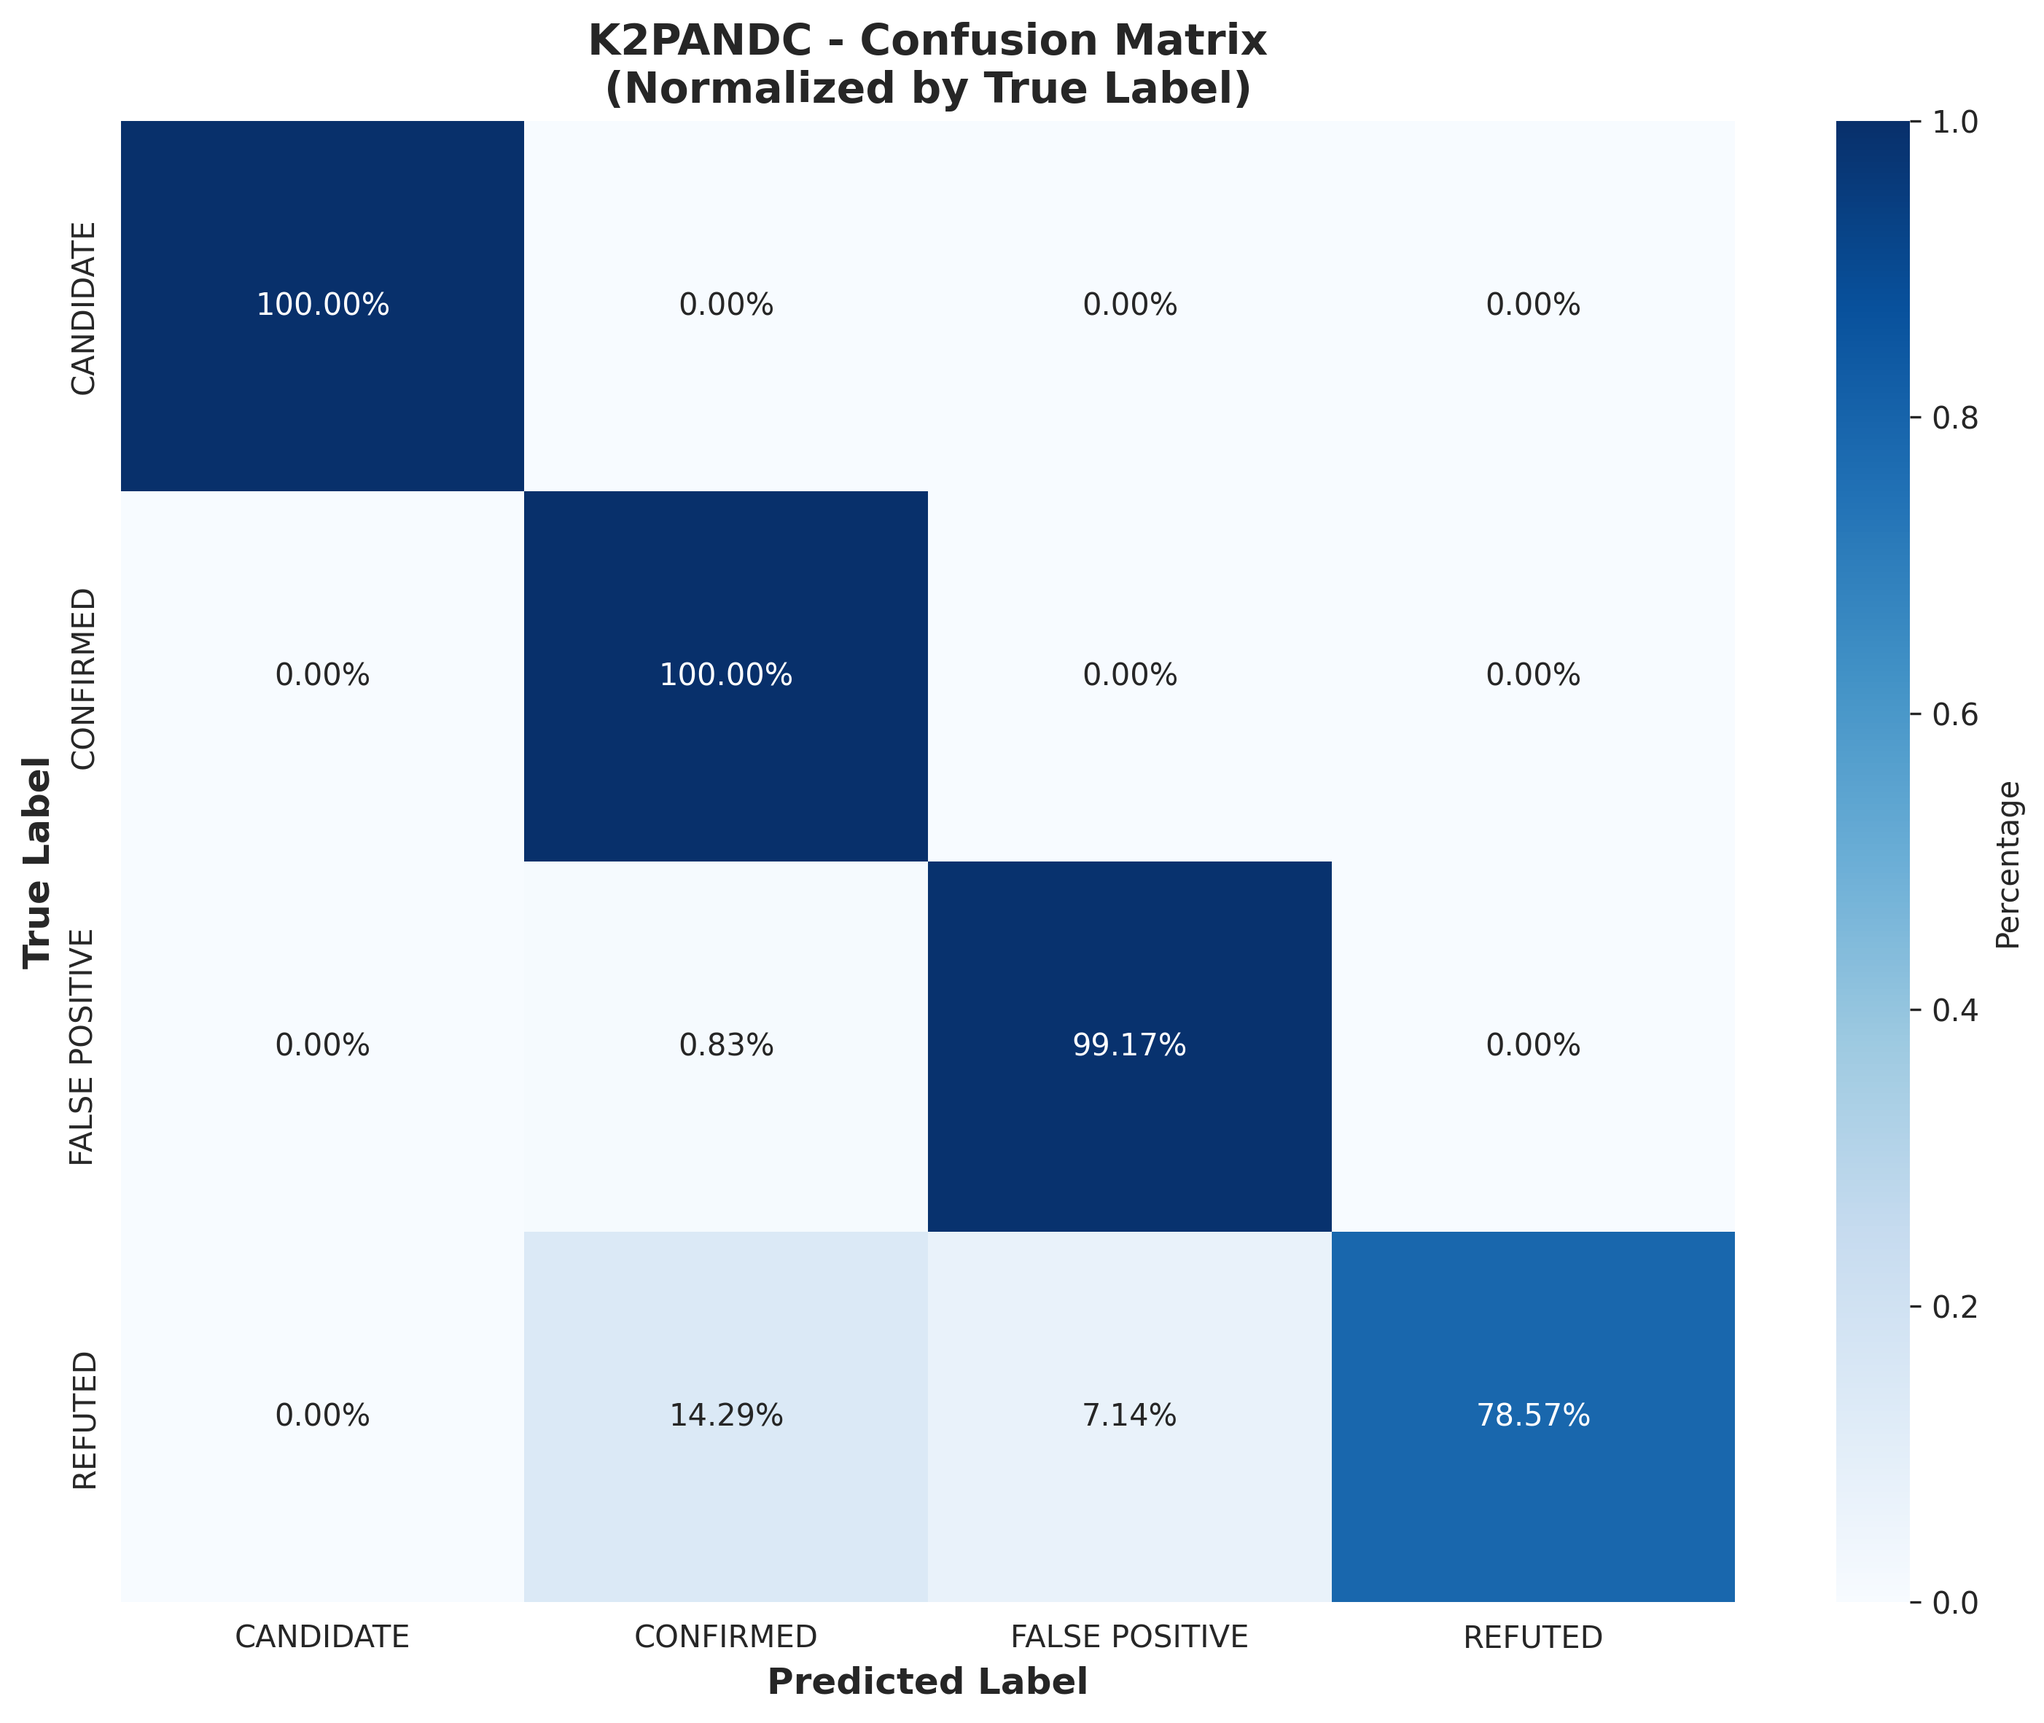
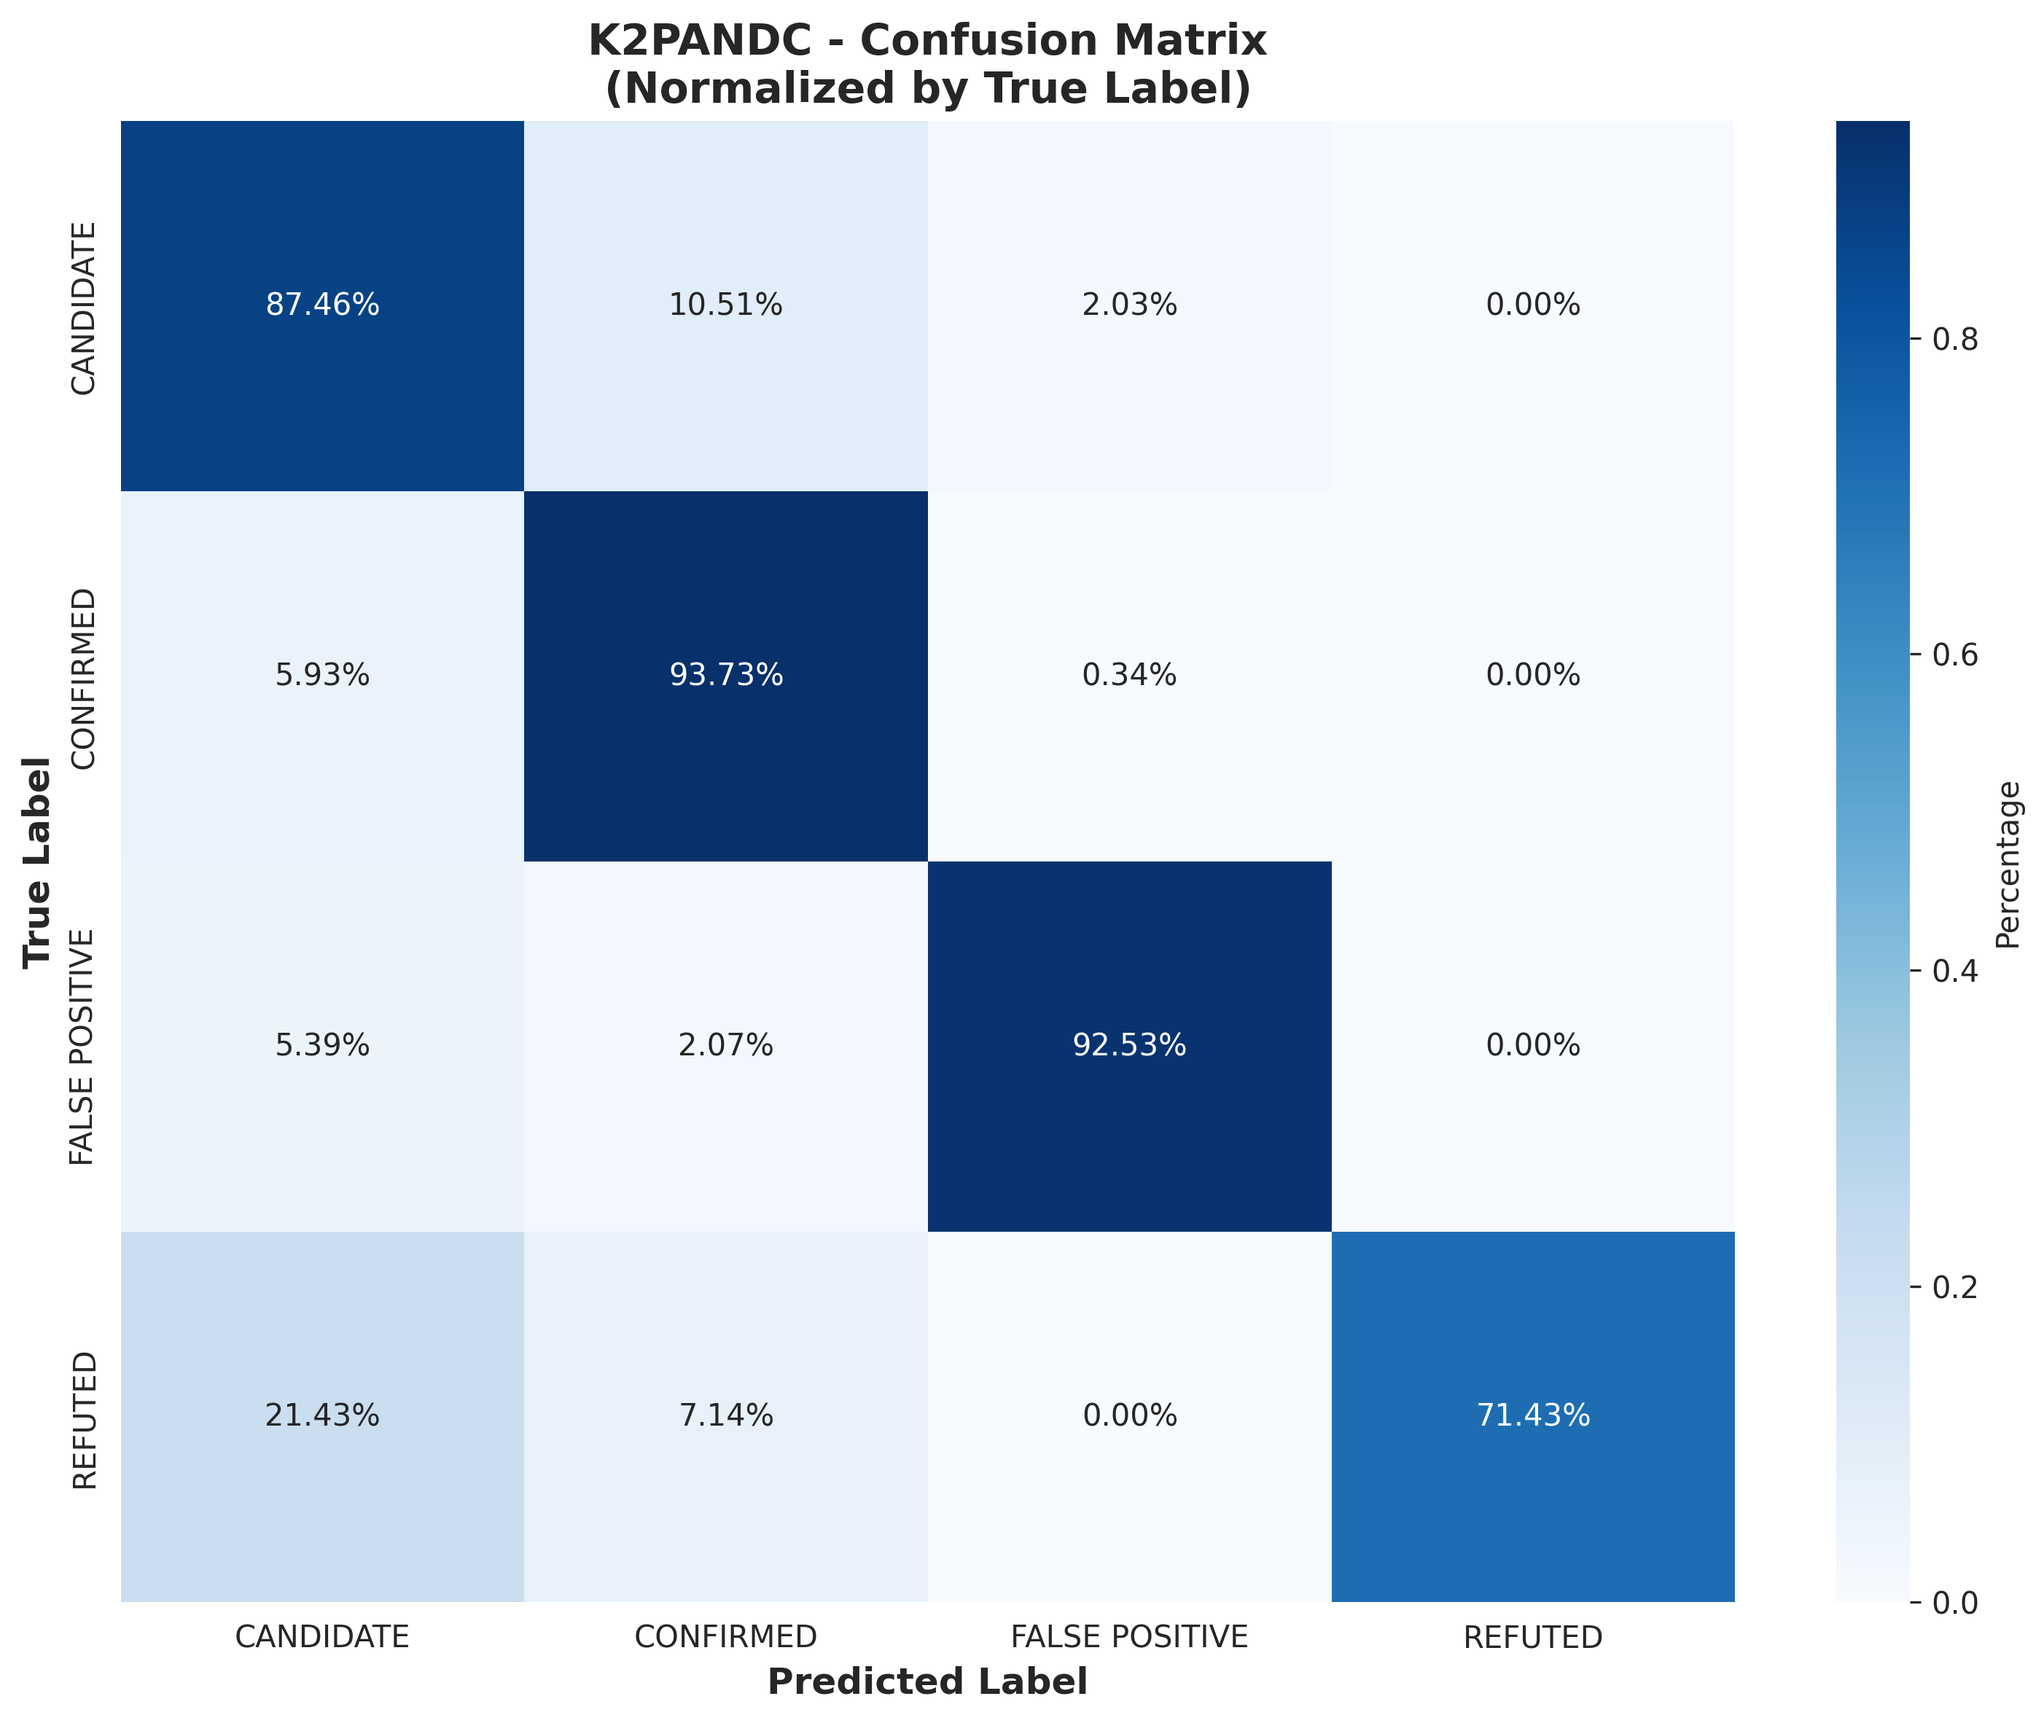
Ml adding xboostg model trying something :)

diff --git a/scripts/train_models_fixed.py b/scripts/train_models_fixed.py
@@ -1,0 +1,321 @@
+"""
+FIXED ML Training Pipeline - Removing Data Leakage
+Properly excludes all target-related columns
+"""
+
+import pandas as pd
+import numpy as np
+import pickle
+import time
+from datetime import datetime
+
+# ML Models
+from sklearn.ensemble import RandomForestClassifier, GradientBoostingClassifier
+from sklearn.model_selection import train_test_split
+from sklearn.metrics import (accuracy_score, precision_score, recall_score,
+                             f1_score, confusion_matrix, classification_report)
+from sklearn.preprocessing import LabelEncoder
+from sklearn.impute import SimpleImputer
+
+import warnings
+warnings.filterwarnings('ignore')
+
+
+class ExoplanetMLPipeline:
+    """Complete ML training pipeline - FIXED for data leakage"""
+
+    def __init__(self):
+        self.results = {}
+        self.models = {}
+        self.label_encoders = {}
+
+    def load_data(self, dataset_name):
+        """Load cleaned dataset"""
+        print(f"\n{'='*80}")
+        print(f"LOADING {dataset_name.upper()} DATASET")
+        print(f"{'='*80}")
+
+        file_path = f'data/processed/{dataset_name}_cleaned.csv'
+        df = pd.read_csv(file_path)
+
+        print(f"✓ Loaded: {df.shape}")
+        return df
+
+    def prepare_data(self, df, dataset_name):
+        """Prepare features and target - FIXED to remove data leakage"""
+        print(f"\nPreparing data...")
+
+        # Define target column based on dataset
+        if dataset_name == 'cumulative':
+            target_col = 'koi_disposition'
+            # REMOVE ALL TARGET-RELATED COLUMNS
+            leakage_cols = ['koi_disposition', 'koi_disposition_encoded',
+                           'koi_pdisposition', 'koi_pdisposition_encoded']
+        elif dataset_name == 'k2pandc':
+            target_col = 'disposition'
+            leakage_cols = ['disposition', 'disposition_encoded',
+                           'discoverymethod', 'discoverymethod_encoded']
+        else:  # toi
+            target_col = 'tfopwg_disp'
+            leakage_cols = ['tfopwg_disp', 'tfopwg_disp_encoded']
+
+        # Get target before dropping
+        y = df[target_col].copy()
+
+        # Drop ALL target and leakage columns
+        X = df.drop(columns=[col for col in leakage_cols if col in df.columns])
+
+        # Keep only numeric features
+        X = X.select_dtypes(include=[np.number])
+
+        print(f"\n🔍 DATA LEAKAGE CHECK:")
+        print(f"  Removed columns: {[col for col in leakage_cols if col in df.columns]}")
+        print(f"  Remaining features: {X.shape[1]}")
+
+        # Verify no leakage
+        for col in X.columns:
+            if 'disposition' in col.lower() or 'encoded' in col.lower():
+                print(f"  ⚠  WARNING: Potential leakage in column: {col}")
+
+        # Handle missing values
+        if X.isnull().sum().sum() > 0:
+            print(f"\n  Imputing {X.isnull().sum().sum()} missing values...")
+            imputer = SimpleImputer(strategy='median')
+            X = pd.DataFrame(imputer.fit_transform(X), columns=X.columns, index=X.index)
+
+        # Encode target
+        le = LabelEncoder()
+        y_encoded = le.fit_transform(y)
+        self.label_encoders[dataset_name] = le
+
+        print(f"\n  ✓ Features: {X.shape[1]}")
+        print(f"  ✓ Samples: {len(X)}")
+        print(f"  ✓ Classes: {len(le.classes_)}")
+        print(f"  Class distribution:")
+        for cls, count in zip(*np.unique(y_encoded, return_counts=True)):
+            print(f"    {le.classes_[cls]}: {count} ({count/len(y)*100:.1f}%)")
+
+        return X, y_encoded, y
+
+    def create_splits(self, X, y, test_size=0.15, val_size=0.15):
+        """Create train/validation/test splits"""
+        print(f"\nCreating train/validation/test splits...")
+
+        # First split: train+val vs test
+        X_temp, X_test, y_temp, y_test = train_test_split(
+            X, y, test_size=test_size, random_state=42, stratify=y
+        )
+
+        # Second split: train vs val
+        val_ratio = val_size / (1 - test_size)
+        X_train, X_val, y_train, y_val = train_test_split(
+            X_temp, y_temp, test_size=val_ratio, random_state=42, stratify=y_temp
+        )
+
+        print(f"  Train: {X_train.shape[0]} samples ({X_train.shape[0]/len(X)*100:.1f}%)")
+        print(f"  Val:   {X_val.shape[0]} samples ({X_val.shape[0]/len(X)*100:.1f}%)")
+        print(f"  Test:  {X_test.shape[0]} samples ({X_test.shape[0]/len(X)*100:.1f}%)")
+
+        return X_train, X_val, X_test, y_train, y_val, y_test
+
+    def train_random_forest(self, X_train, y_train, X_val, y_val, dataset_name):
+        """Train Random Forest classifier"""
+        print(f"\n{'='*80}")
+        print(f"TRAINING RANDOM FOREST - {dataset_name.upper()}")
+        print(f"{'='*80}")
+
+        start_time = time.time()
+
+        # Train model
+        rf = RandomForestClassifier(
+            n_estimators=200,
+            max_depth=20,
+            min_samples_split=5,
+            min_samples_leaf=2,
+            random_state=42,
+            n_jobs=-1,
+            class_weight='balanced'
+        )
+
+        print("Training...")
+        rf.fit(X_train, y_train)
+
+        # Predictions
+        y_train_pred = rf.predict(X_train)
+        y_val_pred = rf.predict(X_val)
+
+        # Metrics
+        train_acc = accuracy_score(y_train, y_train_pred)
+        val_acc = accuracy_score(y_val, y_val_pred)
+
+        training_time = time.time() - start_time
+
+        print(f"\n✓ Training complete!")
+        print(f"  Training Time: {training_time:.2f} seconds")
+        print(f"  Train Accuracy: {train_acc*100:.2f}%")
+        print(f"  Val Accuracy:   {val_acc*100:.2f}%")
+
+        # Check for overfitting
+        overfit_gap = (train_acc - val_acc) * 100
+        if overfit_gap > 5:
+            print(f"  ⚠  Overfitting detected! Gap: {overfit_gap:.2f}%")
+        elif val_acc > 0.95:
+            print(f"  ✓ Excellent generalization!")
+        else:
+            print(f"  ✓ Good generalization (gap: {overfit_gap:.2f}%)")
+
+        # Store model
+        self.models[f'{dataset_name}_rf'] = rf
+
+        return {
+            'model': 'Random Forest',
+            'train_acc': train_acc,
+            'val_acc': val_acc,
+            'time': training_time
+        }
+
+    def evaluate_on_test(self, X_test, y_test, dataset_name):
+        """Evaluate model on test set"""
+        print(f"\n{'='*80}")
+        print(f"TEST SET EVALUATION - {dataset_name.upper()}")
+        print(f"{'='*80}")
+
+        model = self.models[f'{dataset_name}_rf']
+        le = self.label_encoders[dataset_name]
+
+        y_pred = model.predict(X_test)
+        accuracy = accuracy_score(y_test, y_pred)
+        precision = precision_score(y_test, y_pred, average='weighted', zero_division=0)
+        recall = recall_score(y_test, y_pred, average='weighted', zero_division=0)
+        f1 = f1_score(y_test, y_pred, average='weighted', zero_division=0)
+
+        print(f"\nTest Results:")
+        print(f"  Accuracy:  {accuracy*100:.2f}%")
+        print(f"  Precision: {precision*100:.2f}%")
+        print(f"  Recall:    {recall*100:.2f}%")
+        print(f"  F1-Score:  {f1*100:.2f}%")
+
+        # Confusion matrix
+        cm = confusion_matrix(y_test, y_pred)
+        print(f"\nConfusion Matrix:")
+        print(cm)
+
+        # Feature importance
+        print(f"\n🔍 TOP 10 IMPORTANT FEATURES:")
+        feature_names = self.models[f'{dataset_name}_rf'].feature_names_in_
+        importances = model.feature_importances_
+        indices = np.argsort(importances)[::-1][:10]
+
+        for i, idx in enumerate(indices, 1):
+            print(f"  {i:2d}. {feature_names[idx]:30s}: {importances[idx]:.4f}")
+
+        return {
+            'dataset': dataset_name,
+            'accuracy': accuracy,
+            'precision': precision,
+            'recall': recall,
+            'f1': f1
+        }
+
+    def train_dataset(self, dataset_name):
+        """Complete training pipeline for one dataset"""
+        print(f"\n\n{'#'*80}")
+        print(f"# TRAINING PIPELINE: {dataset_name.upper()}")
+        print(f"{'#'*80}\n")
+
+        # Load data
+        df = self.load_data(dataset_name)
+
+        # Prepare data (FIXED - no leakage)
+        X, y_encoded, y_original = self.prepare_data(df, dataset_name)
+
+        # Create splits
+        X_train, X_val, X_test, y_train, y_val, y_test = self.create_splits(X, y_encoded)
+
+        # Train model
+        train_results = self.train_random_forest(X_train, y_train, X_val, y_val, dataset_name)
+
+        # Test evaluation
+        test_results = self.evaluate_on_test(X_test, y_test, dataset_name)
+
+        self.results[dataset_name] = {
+            'training': train_results,
+            'test': test_results
+        }
+
+        return train_results, test_results
+
+    def generate_summary_report(self):
+        """Generate comprehensive summary report"""
+        print(f"\n\n{'='*80}")
+        print("FINAL TRAINING SUMMARY (NO DATA LEAKAGE)")
+        print(f"{'='*80}\n")
+
+        print(f"{'Dataset':<15} {'Train Acc':<12} {'Val Acc':<12} {'Test Acc':<12} {'F1-Score':<12}")
+        print("=" * 70)
+
+        for dataset_name in ['cumulative', 'k2pandc', 'toi']:
+            if dataset_name not in self.results:
+                continue
+
+            train_res = self.results[dataset_name]['training']
+            test_res = self.results[dataset_name]['test']
+
+            print(f"{dataset_name.upper():<15} {train_res['train_acc']*100:>10.2f}% "
+                  f"{train_res['val_acc']*100:>10.2f}% {test_res['accuracy']*100:>10.2f}% "
+                  f"{test_res['f1']*100:>10.2f}%")
+
+        print(f"\n{'='*80}\n")
+
+    def save_models(self):
+        """Save trained models"""
+        print("Saving FIXED models...")
+
+        import os
+        os.makedirs('models_fixed', exist_ok=True)
+
+        for name, model in self.models.items():
+            filepath = f'models_fixed/{name}.pkl'
+            with open(filepath, 'wb') as f:
+                pickle.dump(model, f)
+            print(f"  ✓ Saved: {filepath}")
+
+        # Save label encoders
+        with open('models_fixed/label_encoders.pkl', 'wb') as f:
+            pickle.dump(self.label_encoders, f)
+        print(f"  ✓ Saved: models_fixed/label_encoders.pkl")
+
+        print("\n✅ All FIXED models saved to models_fixed/!")
+
+
+def main():
+    """Main training pipeline"""
+    print("="*80)
+    print("NASA EXOPLANET ML TRAINING PIPELINE - FIXED")
+    print("Removed data leakage - using only real features")
+    print("="*80)
+    print(f"Started at: {datetime.now().strftime('%Y-%m-%d %H:%M:%S')}")
+
+    pipeline = ExoplanetMLPipeline()
+
+    # Train all datasets
+    for dataset in ['cumulative', 'k2pandc', 'toi']:
+        try:
+            pipeline.train_dataset(dataset)
+        except Exception as e:
+            print(f"\n❌ Error training {dataset}: {str(e)}")
+            import traceback
+            traceback.print_exc()
+
+    # Generate report
+    pipeline.generate_summary_report()
+
+    # Save models
+    pipeline.save_models()
+
+    print(f"\nCompleted at: {datetime.now().strftime('%Y-%m-%d %H:%M:%S')}")
+    print("="*80)
+
+
+if __name__ == "__main__":
+    main()

diff --git a/scripts/test_models.py b/scripts/test_models.py
@@ -29,12 +29,12 @@ class ModelTester:
     def load_models(self):
         """Load trained models"""
         print("="*80)
-        print("LOADING TRAINED MODELS")
+        print("LOADING TRAINED MODELS (FIXED - NO DATA LEAKAGE)")
         print("="*80)
 
         # Load Random Forest models
         for dataset in ['cumulative', 'k2pandc', 'toi']:
-            model_path = f'models/{dataset}_rf.pkl'
+            model_path = f'models_fixed/{dataset}_rf.pkl'
             try:
                 with open(model_path, 'rb') as f:
                     self.models[dataset] = pickle.load(f)
@@ -44,7 +44,7 @@ class ModelTester:
 
         # Load label encoders
         try:
-            with open('models/label_encoders.pkl', 'rb') as f:
+            with open('models_fixed/label_encoders.pkl', 'rb') as f:
                 self.label_encoders = pickle.load(f)
             print(f"✓ Loaded: label_encoders.pkl")
         except Exception as e:
@@ -59,17 +59,24 @@ class ModelTester:
         # Load cleaned data
         df = pd.read_csv(f'data/processed/{dataset_name}_cleaned.csv')
 
-        # Define target column
+        # Define target column and leakage columns
         if dataset_name == 'cumulative':
             target_col = 'koi_disposition'
+            leakage_cols = ['koi_disposition', 'koi_disposition_encoded',
+                           'koi_pdisposition', 'koi_pdisposition_encoded']
         elif dataset_name == 'k2pandc':
             target_col = 'disposition'
+            leakage_cols = ['disposition', 'disposition_encoded',
+                           'discoverymethod', 'discoverymethod_encoded']
         else:
             target_col = 'tfopwg_disp'
+            leakage_cols = ['tfopwg_disp', 'tfopwg_disp_encoded']
 
-        # Separate features and target
-        X = df.drop(columns=[target_col])
-        y = df[target_col]
+        # Get target
+        y = df[target_col].copy()
+
+        # Remove ALL target and leakage columns
+        X = df.drop(columns=[col for col in leakage_cols if col in df.columns])
 
         # Keep only numeric features
         X = X.select_dtypes(include=[np.number])
